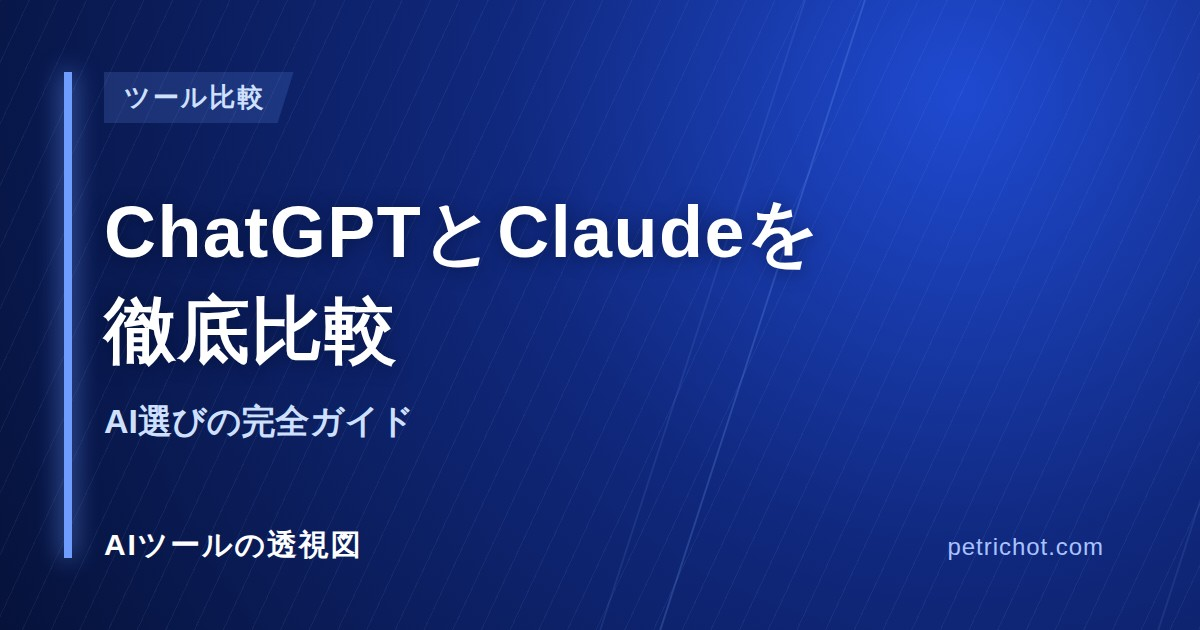
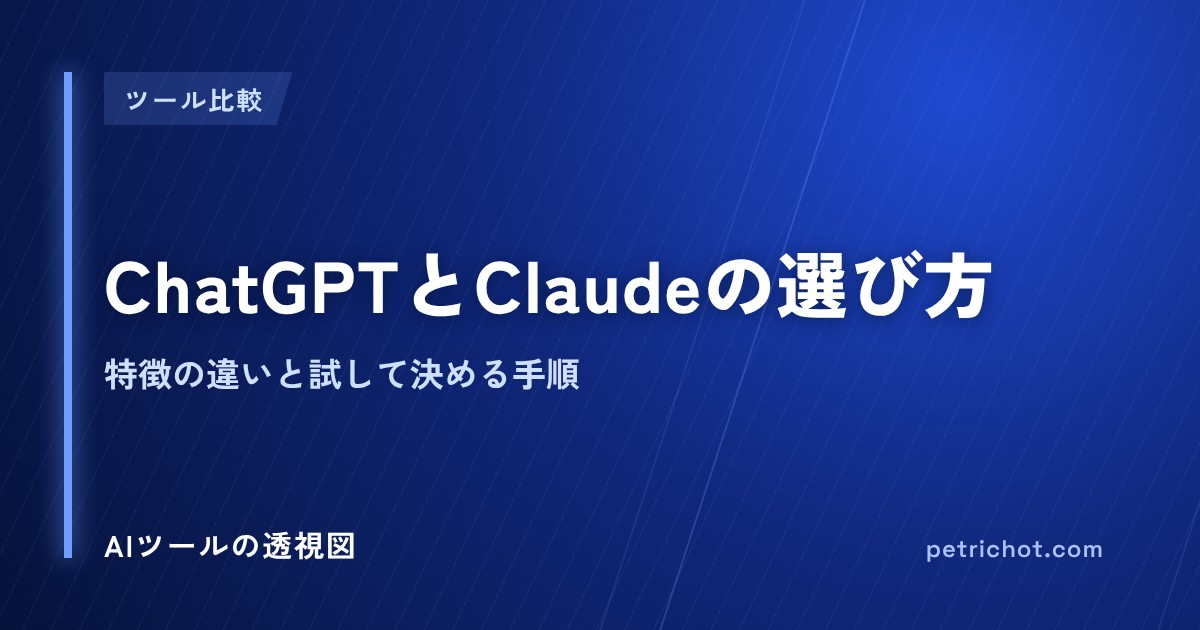
update: 「ChatGPTとClaudeの選び方｜特徴の違いと試して決める手順」に改題・更新(事実確認:確認できない評価と古いプラグイン記述を削除、比較表を確認用に変更)
Claude-Session: https://claude.ai/code/session_01XMqZdQHkJM2VNmqCkBvbz3

diff --git a/affiliate/content/chatgpt-vs-claude-hikaku.md b/affiliate/content/chatgpt-vs-claude-hikaku.md
@@ -1,9 +1,9 @@
 ---
-title: ChatGPTとClaudeを徹底比較|AI選びの完全ガイド
-description: ChatGPTとClaudeの機能・料金体系・向いている場面を徹底比較。2026年時点の情報をもとに、あなたの使い方に合ったAIツールの選び方を解説します。
+title: ChatGPTとClaudeの選び方｜特徴の違いと試して決める手順
+description: ChatGPTとClaudeの機能・料金体系・向いている場面を徹底比較。特徴の違いと、自分の使い方に合うほうを実際に試して決める手順を解説します。料金や機能の細部は公式サイトでご確認ください。
 slug: chatgpt-vs-claude-hikaku
 date: 2026-08-02
-updated: 2026-08-02
+updated: 2026-10-31
 category: ツール比較
 tags: [ChatGPT, Claude, AI, 比較, 選び方]
 ---
@@ -23,26 +23,25 @@ tags: [ChatGPT, Claude, AI, 比較, 選び方]
 ChatGPTはOpenAIが開発した生成AIで、公開以降、生成AIという分野そのものを広く知らしめた存在です。
 
 **主な特徴：**
-- 複数のモデルから選択可能で、日本語対応が非常に充実している
+- 日本語で利用でき、複数のモデルから選べる（選べるモデルはプランや時期で変わります）
 - Webブラウザ、モバイルアプリ、APIと利用形態が豊富
-- プラグイン機能で外部連携が可能（有料版）
-- 画像生成機能を統合しており、文章と画像を同じ会話の中で作れる
+- 画像を生成する機能があり、文章と画像を同じ会話の中で作れる（利用できる範囲はプランによって異なります）
 
-「今週の会議メモを箇条書きに整理して、そのままSNS投稿用の画像も作ってほしい」というように、**文章と画像づくりを1つの会話で完結させたい場面**でChatGPTの強みが出ます。ChatGPTは知名度の高さと、初心者にも迷いにくい画面構成が強みです。
+「今週の会議メモを箇条書きに整理して、そのままSNS投稿用の画像も作ってほしい」というように、**文章と画像づくりを1つの会話で完結させたい場面**でChatGPTの強みが出ます。ChatGPTは知名度の高さと、利用者が多く情報を探しやすい点が目安になります。
 
 {{aff:claude}}
 
 ### Claude
 
-ClaudeはAnthropicが開発したAIアシスタントです。後発ながら、技術的な高さと安全性設計で急速に評価を高めています。
+ClaudeはAnthropicが開発したAIアシスタントです。安全性を重視した設計を打ち出していることで知られています。
 
 **主な特徴：**
-- 長い文章をまとめて渡せる（一度に扱える文章量が多い）
-- 複雑な分析タスクや長文処理が得意
-- テキスト・画像入力に対応
-- セキュリティと倫理設計が強く、API連携が企業に人気
+- 長い文章を渡して、要約や整理をさせる使い方に向いているとされる
+- 文章や画像を入力して読み取らせられる
+- Web、アプリ、APIなどで利用できる
+- 画像を生成する用途は主眼ではなく、画像づくりが目的なら対応状況を事前に確認したい
 
-「30ページの契約書PDFをアップロードして、リスクのありそうな条項だけ抜き出してほしい」というように、**長い資料をまるごと読ませて要点を絞り込ませたい場面**でClaudeの強みが出ます。Claudeは技術的な深さと信頼性が特徴です。
+「30ページの契約書PDFをアップロードして、リスクのありそうな条項だけ抜き出してほしい」というように、**長い資料をまるごと読ませて要点を絞り込ませたい場面**でClaudeの強みが出ます。Claudeは長い資料の読み込みや整理に使う人が多いツールです。
 
 ## 機能比較表とその読み方
 
@@ -50,12 +49,14 @@ ClaudeはAnthropicが開発したAIアシスタントです。後発ながら、
 
 | 項目 | ChatGPT | Claude |
 |------|---------|--------|
-| 日本語対応 | 非常に優秀 | 良好 |
-| 処理速度 | 高速（有料版） | 安定的 |
-| 長文処理能力 | 標準的 | 優秀 |
-| 画像生成 | 対応 | なし |
-| コード分析 | 実用的 | 非常に優秀 |
-| 価格帯 | 公式サイトで確認 | 公式サイトで確認 |
+| 提供元 | OpenAI | Anthropic |
+| 日本語での利用 | できる | できる |
+| 画像を作る機能 | あり（範囲はプランで異なる） | 主眼ではない。必要なら要確認 |
+| 長い資料の読み込み | 試して確認 | 試して確認 |
+| コードの相談 | 試して確認 | 試して確認 |
+| 無料枠・料金・モデル | 公式サイトで確認 | 公式サイトで確認 |
+
+この表では、「どちらが上」と断定できない項目を「試して確認」としています。出力の質は指示の内容や時期で変わり、公式に数字で比較されているものでもないためです。
 
 こうした表を見ても、たいていの人は決めきれません。理由ははっきりしていて、**表に並ぶ項目の大半が、自分の使い方に関係ないから**です。
 
@@ -143,7 +144,7 @@ ClaudeはAnthropicが開発したAIアシスタントです。後発ながら、
 有料版で変わるのは主に、使える回数や機能の範囲、応答の速さです。**質問の出し方が雑なら、有料版でも返ってくるものは雑になります。** 先に[プロンプトの書き方の基本](https://petrichot.com/prompt-no-kakikata-kihon/)を押さえたほうが、支払う前に効果が出ます。
 
 **「1つに決めなければならない」**
-どちらも無料で使える範囲があります。片方に絞る必要は、実はありません。
+どちらも無料で使える範囲があるとされています（内容は公式サイトでご確認ください）。片方に絞る必要は、実はありません。
 
 **「AIが言ったことは正しい」**
 これは両方に共通する注意点です。どちらも、事実でないことを自然な文章で書くことがあります。理由は[AIはなぜもっともらしい嘘をつくのか](https://petrichot.com/ai-hallucination-naze/)でまとめています。
@@ -154,14 +155,14 @@ ClaudeはAnthropicが開発したAIアシスタントです。後発ながら、
 
 | 場面 | 向いているツール | 理由 |
 |---|---|---|
-| 日本語の文章を毎日たくさん書く | ChatGPT | 日本語対応の実績が長く、初心者でも迷いにくい画面構成 |
-| 30ページの資料やPDFを要約させたい | Claude | 一度に扱える文章量が多く、長文の分析が得意 |
-| 文章と一緒に画像も作りたい | ChatGPT | 画像生成機能を同じ会話の中で使える |
-| コードのレビューや設計相談をしたい | Claude | コード分析の評価が高く、複雑な論理を追うのが得意 |
-| セキュリティ要件が厳しい業務で使う | Claude | 安全性・倫理設計を重視した設計思想 |
-| とりあえず試して雰囲気を掴みたい | 両方の無料版 | 無料の範囲でも基本機能は十分試せる |
+| 日本語の文章を毎日たくさん書く | 両方を試して決める | 文体の好みは人によって違うため、同じ依頼で比べる |
+| 30ページの資料やPDFを要約させたい | まずClaudeから試す | 長い資料を読ませる用途で使われることが多い。上限は公式サイトで確認 |
+| 文章と一緒に画像も作りたい | ChatGPT | 画像を生成する機能を同じ会話の中で使える |
+| コードのレビューや設計相談をしたい | 両方を試して決める | 自分のコードで比べるのが確実 |
+| セキュリティ要件が厳しい業務で使う | 社内ルールと各社の規約で判断 | どちらが安全かは断定できない。データの扱いは各社の公式情報で確認 |
+| とりあえず試して雰囲気を掴みたい | 両方の無料版 | 無料の範囲で使い心地を確かめられる（範囲は公式サイトで確認） |
 
-Claudeの最新モデルについては[Claude Opus 5の特徴](https://petrichot.com/claude-opus-5-toha/)も参考にしてください。
+Claudeのモデルについては[Claude Opus 5の特徴](https://petrichot.com/claude-opus-5-toha/)も参考にしてください。
 
 文章作成をさらに専門的に、特にSEOを意識した記事を継続的に作りたい場合は、Value AI Writerのような専門特化型のツールを検討する価値があります。
 
@@ -192,7 +193,7 @@ Claudeの最新モデルについては[Claude Opus 5の特徴](https://petricho
 - 両方に課金する必要はない。まず主力の1つから
 - どちらも事実でないことを書くことがある。確認は必ず人がやる
 
-ChatGPTとClaudeは異なる強みを持つ、補完関係にあるツールです。ChatGPTは知名度と使いやすさ、Claudeは技術的な深さと安全性が特徴。**カタログを読み比べる時間を、実際に試す時間に回したほうが早く決まります。** 迷っているなら、今週やる予定の作業を1つ選んで、両方の無料版に同じ指示を出してみてください。
+ChatGPTとClaudeは異なる強みを持つ、補完関係にあるツールです。ChatGPTは画像づくりまで1つの会話でできる点、Claudeは長い資料を読ませる使い方で選ばれることが多い点が、判断の出発点になります。ただし細部は変わるため、公式サイトで確認してください。**カタログを読み比べる時間を、実際に試す時間に回したほうが早く決まります。** 迷っているなら、今週やる予定の作業を1つ選んで、両方の無料版に同じ指示を出してみてください。
 
 ## 参考リンク
 
